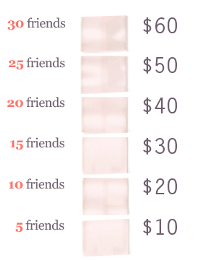
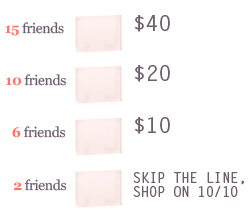
&36964113, #11316 -- new invite counter

diff --git a/public/static/css/style.css b/public/static/css/style.css
@@ -296,19 +296,20 @@ label[for=terms] { width: auto; }
 .block_popup .popup_content .form-list li .validation-advice { position:absolute; bottom:-14px;  }
 /*#become_member { cursor:pointer;font-weight:bold; }*/
   
-#gifts { position: absolute; right: 237px; top: 310px; width: 200px; height: 330px; }
+#gifts { position: absolute; right: 237px; top: 310px; width: 250px; height: 280px; }
 #gifts .money { color: #ff6f67; font-size: 17px; font-style: italic; position: absolute; left:0; top:0; height:50px;
     font-family: "letter-gothic-std",monospace; font-weight: bold; padding-top:7px; width:100%;
     background: url("/static/images/invite_dotline.png") no-repeat scroll -6px top; }
 #gifts .money.initial { background: url("/static/images/invite_dotline_initial.png") no-repeat scroll -6px top;  }
-#gifts .indicator{ background: url("/static/images/gift_ind_back.png") no-repeat ; height: 260px; position: absolute;
-    left:0; top: 40px; width: 200px; display: block; margin:0; padding:16px 0 0; list-style:none; }
-#gifts .indicator .i-level { height:48px; margin-top: -8px; margin-left: 80px; position:relative;  }
+#gifts .indicator{ background: url("/static/images/gift_ind_back.png") no-repeat ; height: 210px; position: absolute;
+    left:0; top: 40px; width: 250px; display: block; margin:0; padding:16px 0 0; list-style:none; }
+#gifts .indicator .i-level { height: 60px; margin-left: 75px; margin-top: -9px; position: relative;  }
 #gifts .indicator .i-level .ammount { display: none; background: white; color: #ff6f67; font-size: 30px; font-style: italic;
     position: absolute; left: 60px; top: 5px; width: 50px; font-family: "letter-gothic-std",monospace; }
-#gifts .indicator .i-level.active { background: url("/static/images/wallet.png") left bottom no-repeat; } 
+#gifts .indicator .i-level.active { background: url("/static/images/wallet.png") left 8px no-repeat; } 
 #gifts .indicator .i-level.current .ammount { display:block; }
 
+#gifts .indicator .i-level .skipper { display: block; font-size: 14px; font-weight: bold; left: 59px; width: 117px; padding-top:7px; font-style:normal; }
 
 #gifts .indicator .i-level .remainder { display: none; font-family: Georgia,serif; font-size: 13px; font-weight: bold;
     color: #FF6F67; line-height: 1; text-align: center; position: absolute; left: 0; top: 16px; width: 50px; }

diff --git a/public/index.php b/public/index.php
@@ -524,8 +524,6 @@ mixpanel.init("<?php $key_file = dirname(__FILE__) . '/../mp_domain.key';
                             <span>GET STARTED!</span>
                         </div>
                         <ul class="indicator">
-                            <li class="i-level i-level-6"><span class="ammount">$60</span><span class="remainder"></span></li>
-                            <li class="i-level i-level-5"><span class="ammount">$50</span><span class="remainder"></span></li>
                             <li class="i-level i-level-4"><span class="ammount">$40</span><span class="remainder"></span></li>
                             <li class="i-level i-level-3"><span class="ammount">$20</span><span class="remainder"></span></li>
                             <li class="i-level i-level-2"><span class="ammount">$10</span><span class="remainder"></span></li>
@@ -544,20 +542,20 @@ mixpanel.init("<?php $key_file = dirname(__FILE__) . '/../mp_domain.key';
                             ////}
                             //console.log(fc, rem, level);
                             //activate_winning(level, rem);
-                            var fc = (fcount > 15) ? 15 : fcount, rem, level, msg = 0;
+                            var fc = (fcount > 15) ? 15 : fcount, rem, level, msg = 0, acls, rcls;
                             switch(true) {
                                 case (fc <= 2) :
-                                    level = 1; rem = 2-fc; msg= 'skip the line<br/>shop on 10/10'; break;
+                                    rem = 2-fc; level = rem ? 0 : 1; msg = 'YOU\'VE SKIPPED THE LINE!'; acls = 'skipper'; break;
                                 case (fc <= 6) :
-                                    level = 2; rem = 6-fc; break;
+                                    rem = 6-fc; level = rem ? 1 : 2; rcls = 'skipper'; break;
                                 case (fc <= 10):
-                                    level = 3; rem = 10-fc; break;
+                                    rem = 10-fc; level = rem ? 2 : 3; rcls = 'skipper'; break;
                                 case (fc <= 15):
-                                    level = 4; rem = 15-fc; break;
+                                    rem = 15-fc; level = rem ? 3 : 4; rcls = 'skipper'; break;
                                 default:
                                     level = 0; rem = 0;
                             }
-                            activate_winning(level,rem, msg);
+                            activate_winning(level,rem, msg, acls, rcls);
                         }
                         
                         function activate_winning(level, remainder, msg, add_msg_class, rem_msg_class)
@@ -573,13 +571,17 @@ mixpanel.init("<?php $key_file = dirname(__FILE__) . '/../mp_domain.key';
                                 $('.indicator li').removeClass('remains');
                                 $('.remainder',$nc).html(''+remainder+'<br/><span style="color:gray;font-weight:normal;">more</span>');
                                 $nc.addClass('remaining');
-                                $('.money span').html('+' + remainder + ' INVITES TO ' + $('.ammount',$nc).text() + '!');
+                                $('.money span').html('+' + remainder + ' INVITES TO ' + $('.ammount',$nc).text().slice(0,5) + '!');
+                                if (add_msg_class) { $('.money span').addClass(add_msg_class); $('.ammount',$cc).addClass(add_msg_class); }
+                                if (rem_msg_class) { $('.money span').removeClass(rem_msg_class); $('.ammount',$cc).removeClass(rem_msg_class); }
                             } else {
                                 $cc.addClass('current');
-                                msg = msg ? msg : ('YOU\'VE EARNED ' + $('.ammount',$cc).html() + '!');
+                                msg = msg ? msg : ('YOU\'VE EARNED ' + $('.ammount',$cc).text() + '!');
                                 $('.money span').html(msg);
-                                if (add_msg_class) $('.money span').addClass(add_msg_class);
-                                if (rem_msg_class) $('.money span').removeClass(rem_msg_class);
+                                console.log(add_msg_class);
+                                console.log(rem_msg_class);
+                                if (add_msg_class) { $('.money span').addClass(add_msg_class); $('.ammount',$cc).addClass(add_msg_class); }
+                                if (rem_msg_class) { $('.money span').removeClass(rem_msg_class); $('.ammount',$cc).removeClass(rem_msg_class); }
                             }
                         }
                         
